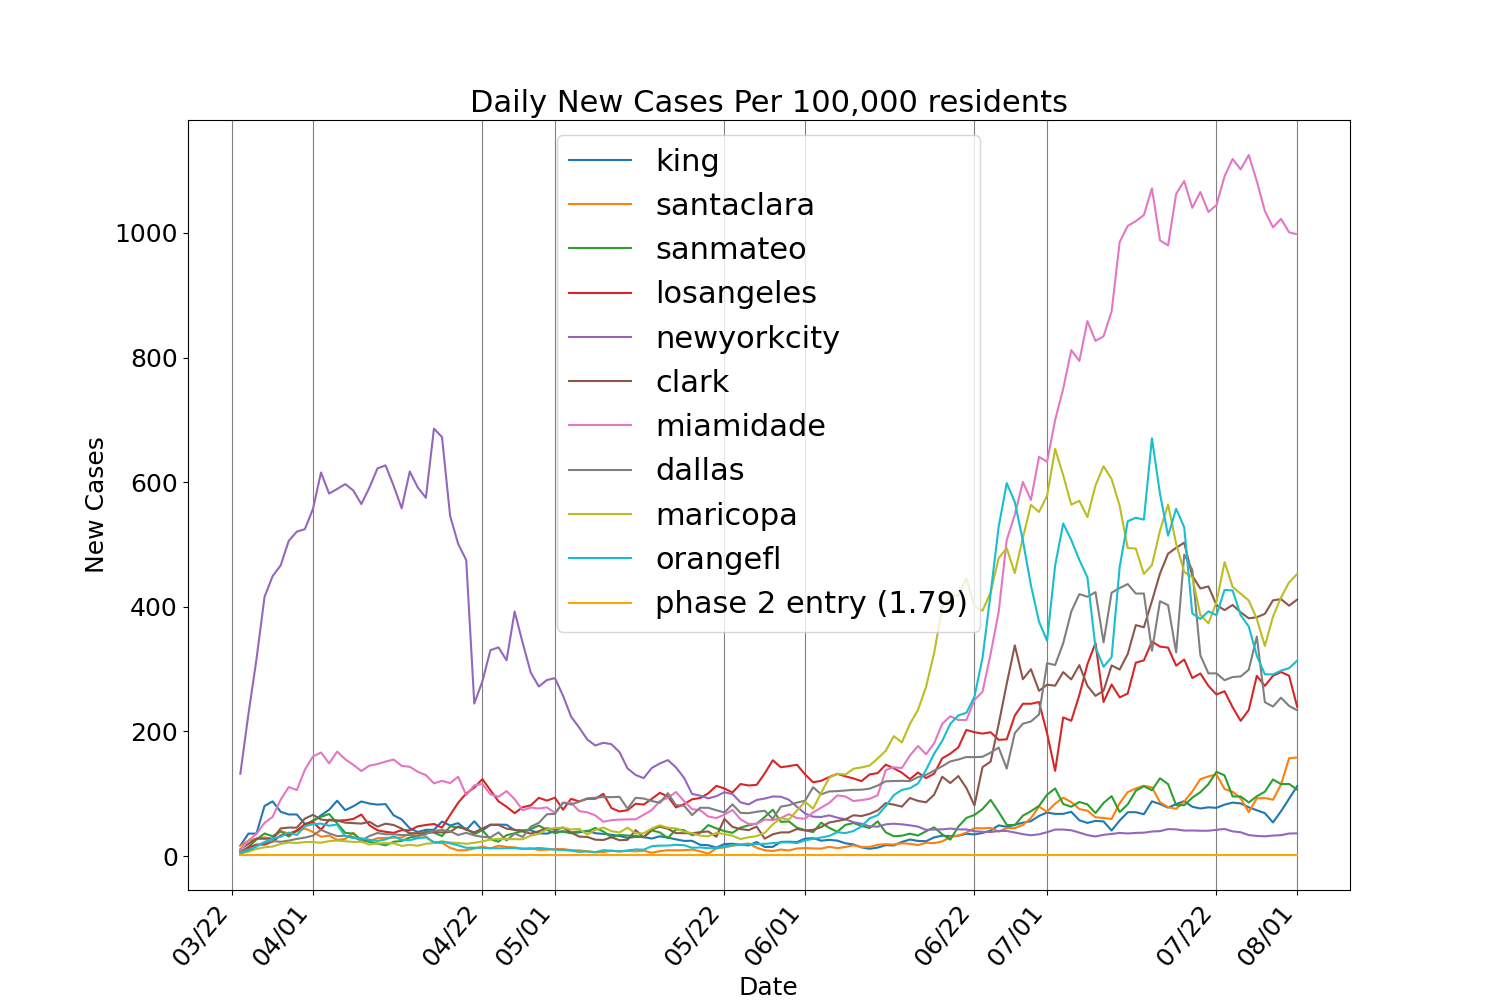
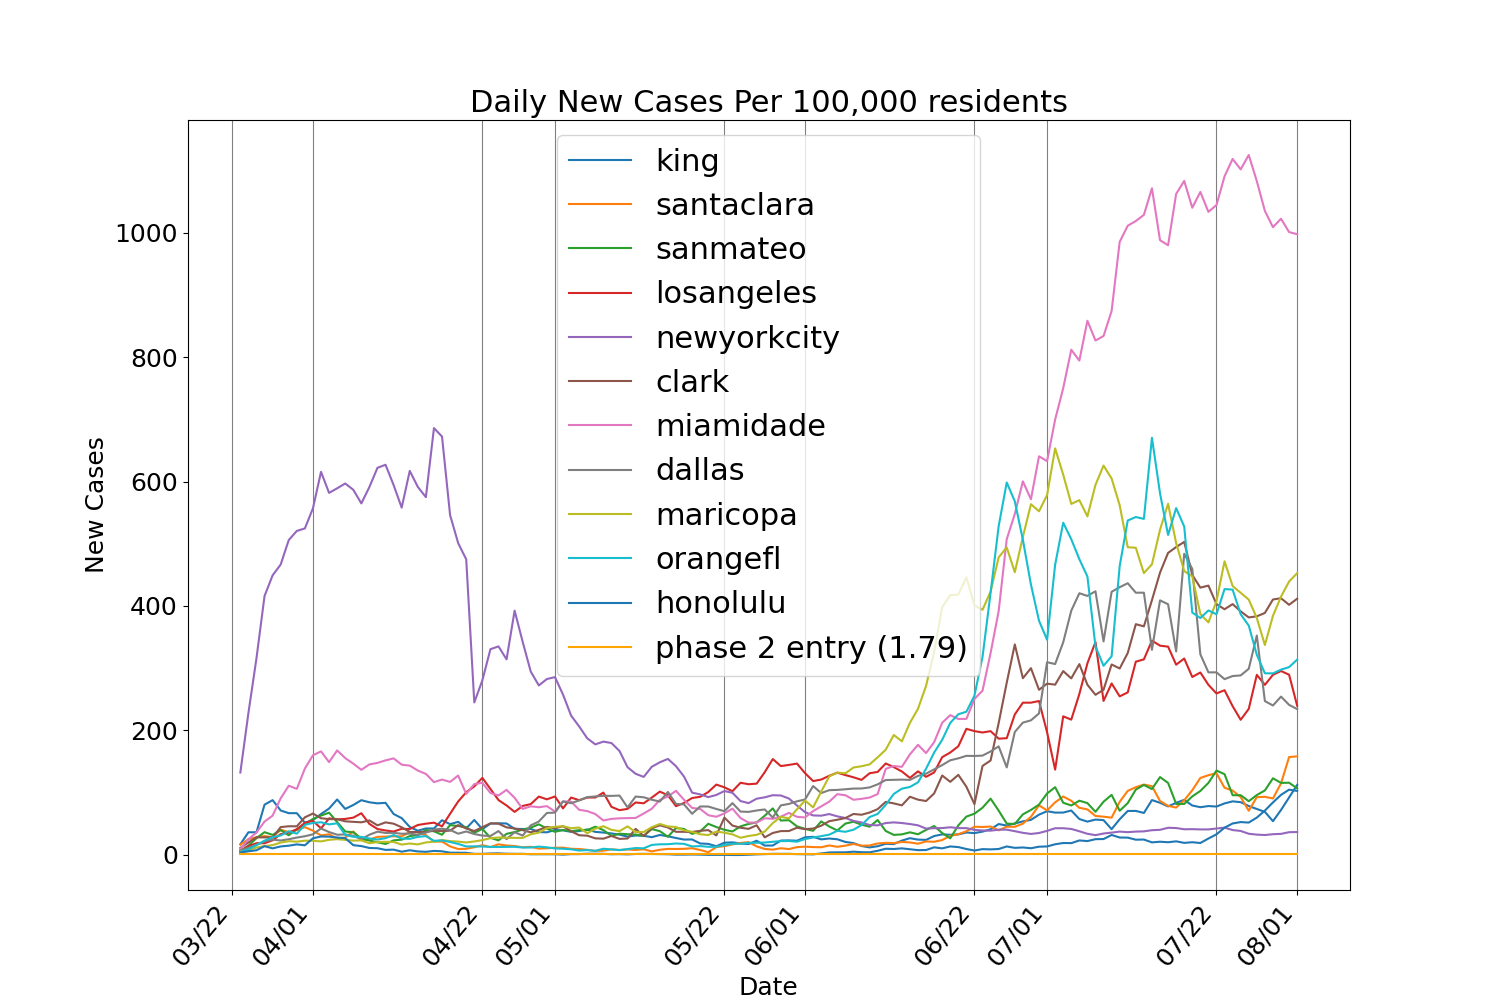
Added Honolulu

diff --git a/docs/index.html b/docs/index.html
@@ -34,85 +34,93 @@
 <li><a href="#dallas"> Dallas County, Texas </a></li>
 <li><a href="#maricopa"> Maricopa County, Arizona </a></li>
 <li><a href="#orangefl"> Orange County, Florida </a></li>
+<li><a href="#honolulu"> Honolulu County, Hawaii </a></li>
 </ul>
 
 <div class="row"><h4>All Counties</h4></div>
 
 <div class="row">
        <div class="col-6">
-            <a href="images/combine.png?1596395526">
-            <img src="images/combine.png?1596395526"></a>
+            <a href="images/combine.png?1596409222">
+            <img src="images/combine.png?1596409222"></a>
        </div>
 </div>
 
     <div class="row"><h4>King County</h4></div>
     <div class="row">
         <a name="king"></a>
-        <div class="col-6"><a href="images/king_1.png?1596395526"><img src="images/king_1.png?1596395526"></a></div>
-        <div class="col-6"><a href="images/king_2.png?1596395526"><img src="images/king_2.png?1596395526"></a></div>
+        <div class="col-6"><a href="images/king_1.png?1596409222"><img src="images/king_1.png?1596409222"></a></div>
+        <div class="col-6"><a href="images/king_2.png?1596409222"><img src="images/king_2.png?1596409222"></a></div>
     </div>
     
     <div class="row"><h4>Santa Clara County</h4></div>
     <div class="row">
         <a name="santaclara"></a>
-        <div class="col-6"><a href="images/santaclara_1.png?1596395526"><img src="images/santaclara_1.png?1596395526"></a></div>
-        <div class="col-6"><a href="images/santaclara_2.png?1596395526"><img src="images/santaclara_2.png?1596395526"></a></div>
+        <div class="col-6"><a href="images/santaclara_1.png?1596409222"><img src="images/santaclara_1.png?1596409222"></a></div>
+        <div class="col-6"><a href="images/santaclara_2.png?1596409222"><img src="images/santaclara_2.png?1596409222"></a></div>
     </div>
     
     <div class="row"><h4>San Mateo County</h4></div>
     <div class="row">
         <a name="sanmateo"></a>
-        <div class="col-6"><a href="images/sanmateo_1.png?1596395526"><img src="images/sanmateo_1.png?1596395526"></a></div>
-        <div class="col-6"><a href="images/sanmateo_2.png?1596395526"><img src="images/sanmateo_2.png?1596395526"></a></div>
+        <div class="col-6"><a href="images/sanmateo_1.png?1596409222"><img src="images/sanmateo_1.png?1596409222"></a></div>
+        <div class="col-6"><a href="images/sanmateo_2.png?1596409222"><img src="images/sanmateo_2.png?1596409222"></a></div>
     </div>
     
     <div class="row"><h4>Los Angeles County</h4></div>
     <div class="row">
         <a name="losangeles"></a>
-        <div class="col-6"><a href="images/losangeles_1.png?1596395526"><img src="images/losangeles_1.png?1596395526"></a></div>
-        <div class="col-6"><a href="images/losangeles_2.png?1596395526"><img src="images/losangeles_2.png?1596395526"></a></div>
+        <div class="col-6"><a href="images/losangeles_1.png?1596409222"><img src="images/losangeles_1.png?1596409222"></a></div>
+        <div class="col-6"><a href="images/losangeles_2.png?1596409222"><img src="images/losangeles_2.png?1596409222"></a></div>
     </div>
     
     <div class="row"><h4>New York City County</h4></div>
     <div class="row">
         <a name="newyorkcity"></a>
-        <div class="col-6"><a href="images/newyorkcity_1.png?1596395526"><img src="images/newyorkcity_1.png?1596395526"></a></div>
-        <div class="col-6"><a href="images/newyorkcity_2.png?1596395526"><img src="images/newyorkcity_2.png?1596395526"></a></div>
+        <div class="col-6"><a href="images/newyorkcity_1.png?1596409222"><img src="images/newyorkcity_1.png?1596409222"></a></div>
+        <div class="col-6"><a href="images/newyorkcity_2.png?1596409222"><img src="images/newyorkcity_2.png?1596409222"></a></div>
     </div>
     
     <div class="row"><h4>Clark County</h4></div>
     <div class="row">
         <a name="clark"></a>
-        <div class="col-6"><a href="images/clark_1.png?1596395526"><img src="images/clark_1.png?1596395526"></a></div>
-        <div class="col-6"><a href="images/clark_2.png?1596395526"><img src="images/clark_2.png?1596395526"></a></div>
+        <div class="col-6"><a href="images/clark_1.png?1596409222"><img src="images/clark_1.png?1596409222"></a></div>
+        <div class="col-6"><a href="images/clark_2.png?1596409222"><img src="images/clark_2.png?1596409222"></a></div>
     </div>
     
     <div class="row"><h4>Miami-Dade County</h4></div>
     <div class="row">
         <a name="miamidade"></a>
-        <div class="col-6"><a href="images/miamidade_1.png?1596395526"><img src="images/miamidade_1.png?1596395526"></a></div>
-        <div class="col-6"><a href="images/miamidade_2.png?1596395526"><img src="images/miamidade_2.png?1596395526"></a></div>
+        <div class="col-6"><a href="images/miamidade_1.png?1596409222"><img src="images/miamidade_1.png?1596409222"></a></div>
+        <div class="col-6"><a href="images/miamidade_2.png?1596409222"><img src="images/miamidade_2.png?1596409222"></a></div>
     </div>
     
     <div class="row"><h4>Dallas County</h4></div>
     <div class="row">
         <a name="dallas"></a>
-        <div class="col-6"><a href="images/dallas_1.png?1596395526"><img src="images/dallas_1.png?1596395526"></a></div>
-        <div class="col-6"><a href="images/dallas_2.png?1596395526"><img src="images/dallas_2.png?1596395526"></a></div>
+        <div class="col-6"><a href="images/dallas_1.png?1596409222"><img src="images/dallas_1.png?1596409222"></a></div>
+        <div class="col-6"><a href="images/dallas_2.png?1596409222"><img src="images/dallas_2.png?1596409222"></a></div>
     </div>
     
     <div class="row"><h4>Maricopa County</h4></div>
     <div class="row">
         <a name="maricopa"></a>
-        <div class="col-6"><a href="images/maricopa_1.png?1596395526"><img src="images/maricopa_1.png?1596395526"></a></div>
-        <div class="col-6"><a href="images/maricopa_2.png?1596395526"><img src="images/maricopa_2.png?1596395526"></a></div>
+        <div class="col-6"><a href="images/maricopa_1.png?1596409222"><img src="images/maricopa_1.png?1596409222"></a></div>
+        <div class="col-6"><a href="images/maricopa_2.png?1596409222"><img src="images/maricopa_2.png?1596409222"></a></div>
     </div>
     
     <div class="row"><h4>Orange County</h4></div>
     <div class="row">
         <a name="orangefl"></a>
-        <div class="col-6"><a href="images/orangefl_1.png?1596395526"><img src="images/orangefl_1.png?1596395526"></a></div>
-        <div class="col-6"><a href="images/orangefl_2.png?1596395526"><img src="images/orangefl_2.png?1596395526"></a></div>
+        <div class="col-6"><a href="images/orangefl_1.png?1596409222"><img src="images/orangefl_1.png?1596409222"></a></div>
+        <div class="col-6"><a href="images/orangefl_2.png?1596409222"><img src="images/orangefl_2.png?1596409222"></a></div>
+    </div>
+    
+    <div class="row"><h4>Honolulu County</h4></div>
+    <div class="row">
+        <a name="honolulu"></a>
+        <div class="col-6"><a href="images/honolulu_1.png?1596409222"><img src="images/honolulu_1.png?1596409222"></a></div>
+        <div class="col-6"><a href="images/honolulu_2.png?1596409222"><img src="images/honolulu_2.png?1596409222"></a></div>
     </div>
     
   </div>
